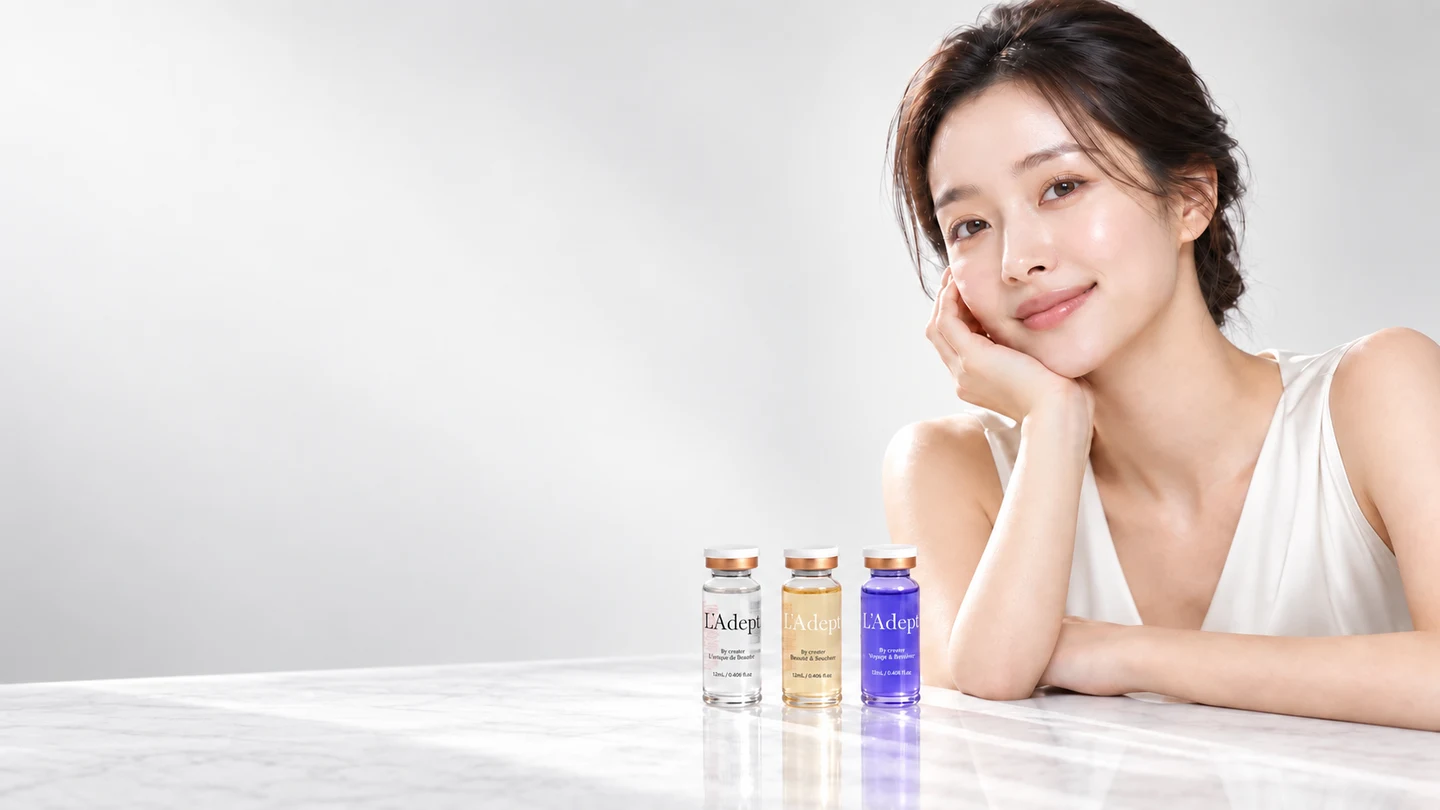
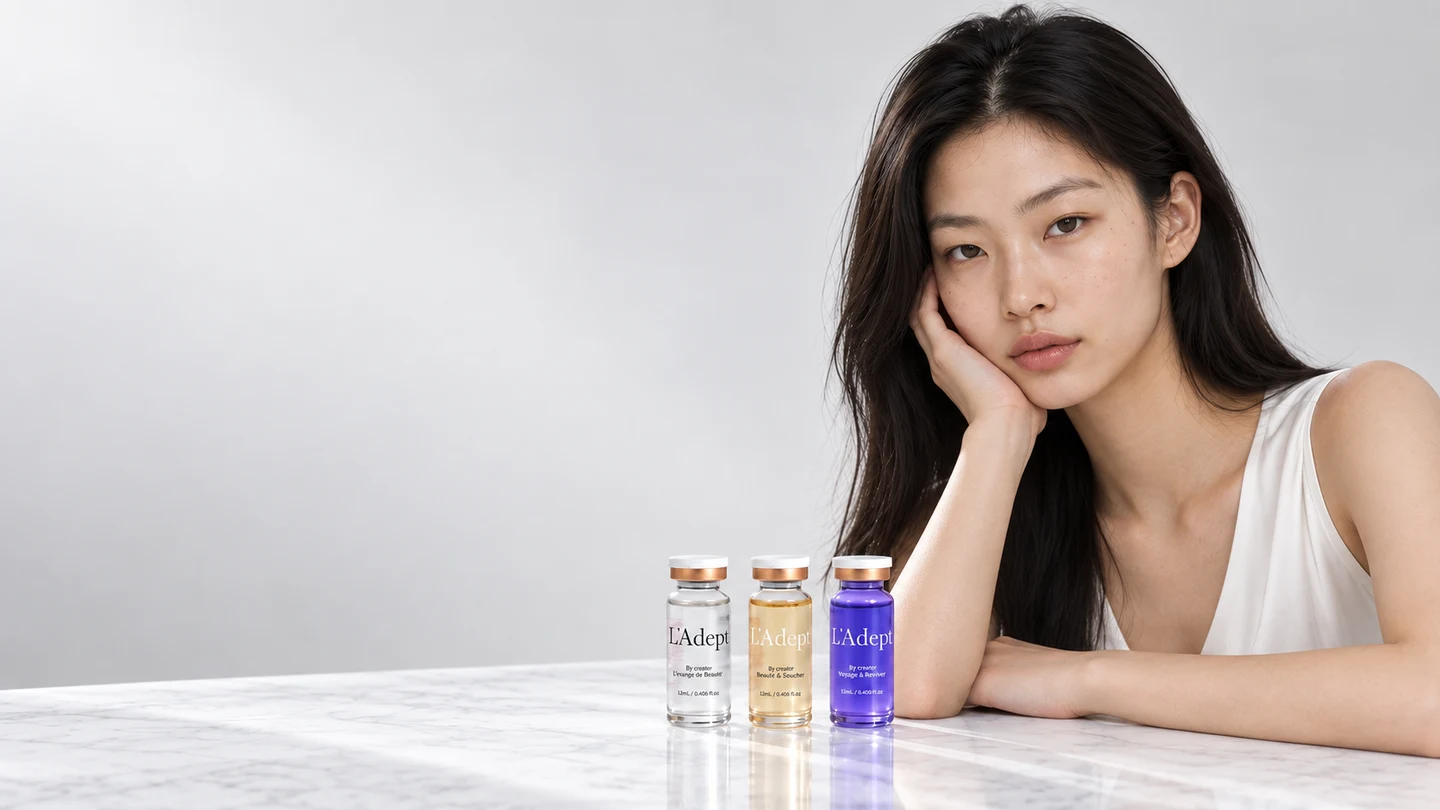
Feature official L'Adept model in desktop and mobile heroes

Changed region(s): [[0.4375, 0.0, 1.0, 1.0], [0.1875, 0.8025, 0.375, 0.8333], [0.0, 0.8333, 0.1875, 0.8642]]

diff --git a/wp-content/et-cache/14/et-core-unified-tb-0-tb-106-deferred-14.min.css b/wp-content/et-cache/14/et-core-unified-tb-0-tb-106-deferred-14.min.css
@@ -1,1 +1,1 @@
-.et_pb_section_0_tb_footer.et_pb_section{padding-top:0px}.et_pb_text_0_tb_footer.et_pb_text{color:#777777!important}.et_pb_text_0_tb_footer{font-family:'Plus Jakarta Sans',Helvetica,Arial,Lucida,sans-serif;font-weight:300}.et_pb_text_0_tb_footer h2{font-family:'DM Serif Text',Georgia,"Times New Roman",serif}.et_pb_text_0_tb_footer h4{font-family:'Plus Jakarta Sans',Helvetica,Arial,Lucida,sans-serif;font-weight:700;font-size:25px}div.et_pb_section.et_pb_section_0{background-image:url(../../uploads/2025/03/hero-model-products-2026.webp?v=20260921b)!important}.et_pb_section_0{height:90vh}.et_pb_row_0,.et_pb_row_6{position:absolute!important;top:50%;bottom:auto;left:50%;right:auto;transform:translateX(-50%) translateY(-50%)}.et_pb_code_0{margin-bottom:1px!important;width:100%}.et_pb_text_0 h2,.et_pb_text_3 h2,.et_pb_text_4 h2,.et_pb_text_5 h2{font-family:'DM Serif Text',Georgia,"Times New Roman",serif;font-size:60px}.et_pb_text_0{padding-top:0px!important;margin-top:0px!important;width:100%}body #page-container .et_pb_section .et_pb_button_0{color:#000000!important;border-radius:200px}body #page-container .et_pb_section .et_pb_button_0:hover{color:#FFFFFF!important;background-image:initial;background-color:#000000}body #page-container .et_pb_section .et_pb_button_0,body #page-container .et_pb_section .et_pb_button_0:hover{padding:0.3em 1em!important}body #page-container .et_pb_section .et_pb_button_0:before,body #page-container .et_pb_section .et_pb_button_0:after{display:none!important}.et_pb_button_0{transition:color 300ms ease 0ms,background-color 300ms ease 0ms;min-width:240px;height:60px;padding:0!important;display:inline-flex!important;align-items:center;justify-content:center;vertical-align:middle}.et_pb_button_0,.et_pb_button_0:after{transition:all 300ms ease 0ms}div.et_pb_section.et_pb_section_3{background-position:left 24% center;background-image:url(../../uploads/2025/03/img2.webp)!important}.et_pb_section_3{height:600px}.et_pb_image_2{text-align:center}.et_pb_text_3 h3{font-family:'DM Serif Text',Georgia,"Times New Roman",serif;font-size:30px;color:#FFFFFF!important}.et_pb_section_4.et_pb_section{padding-top:0px;padding-right:0px;padding-bottom:0px;padding-left:0px;margin-top:0px;margin-bottom:0px;background-color:RGBA(255,255,255,0)!important}.et_pb_row_7,body #page-container .et-db #et-boc .et-l .et_pb_row_7.et_pb_row,body.et_pb_pagebuilder_layout.single #page-container #et-boc .et-l .et_pb_row_7.et_pb_row,body.et_pb_pagebuilder_layout.single.et_full_width_page #page-container #et-boc .et-l .et_pb_row_7.et_pb_row{width:100%;max-width:100%}.et_pb_video_0 .et_pb_video_overlay_hover:hover{background-color:rgba(0,0,0,.6)}.et_pb_image_3{margin-top:70px!important;text-align:left;margin-left:0}.et_pb_row_7.et_pb_row{padding-top:0px!important;padding-right:0px!important;padding-bottom:0px!important;padding-left:0px!important;margin-left:auto!important;margin-right:auto!important;padding-top:0px;padding-right:0px;padding-bottom:0px;padding-left:0px}@media only screen and (max-width:980px){body.logged-in.admin-bar .et_pb_row_0{top:50%}.et_pb_row_0{top:50%;bottom:auto;left:50%;right:auto;transform:translateX(-50%) translateY(-50%)}.et_pb_text_0 h2,.et_pb_text_3 h2,.et_pb_text_4 h2,.et_pb_text_5 h2{font-size:60px}.et_pb_image_2 .et_pb_image_wrap img,.et_pb_image_3 .et_pb_image_wrap img{width:auto}}@media only screen and (max-width:767px){div.et_pb_section.et_pb_section_0{background-image:url(../../uploads/2025/03/hero-model-products-mobile-2026.webp?v=20260921b)!important}body.logged-in.admin-bar .et_pb_row_0{top:65px}.et_pb_row_0{top:65px;bottom:auto;left:50%;right:auto;transform:translateX(-50%) translateY(0px)}.et_pb_text_0 h2,.et_pb_text_3 h2,.et_pb_text_4 h2,.et_pb_text_5 h2{font-size:25px}.et_pb_image_2 .et_pb_image_wrap img,.et_pb_image_3 .et_pb_image_wrap img{width:auto}}
+.et_pb_section_0_tb_footer.et_pb_section{padding-top:0px}.et_pb_text_0_tb_footer.et_pb_text{color:#777777!important}.et_pb_text_0_tb_footer{font-family:'Plus Jakarta Sans',Helvetica,Arial,Lucida,sans-serif;font-weight:300}.et_pb_text_0_tb_footer h2{font-family:'DM Serif Text',Georgia,"Times New Roman",serif}.et_pb_text_0_tb_footer h4{font-family:'Plus Jakarta Sans',Helvetica,Arial,Lucida,sans-serif;font-weight:700;font-size:25px}div.et_pb_section.et_pb_section_0{background-image:url(../../uploads/2025/03/hero-model-products-2026.webp?v=20260921c)!important}.et_pb_section_0{height:90vh}.et_pb_row_0,.et_pb_row_6{position:absolute!important;top:50%;bottom:auto;left:50%;right:auto;transform:translateX(-50%) translateY(-50%)}.et_pb_code_0{margin-bottom:1px!important;width:100%}.et_pb_text_0 h2,.et_pb_text_3 h2,.et_pb_text_4 h2,.et_pb_text_5 h2{font-family:'DM Serif Text',Georgia,"Times New Roman",serif;font-size:60px}.et_pb_text_0{padding-top:0px!important;margin-top:0px!important;width:100%}body #page-container .et_pb_section .et_pb_button_0{color:#000000!important;border-radius:200px}body #page-container .et_pb_section .et_pb_button_0:hover{color:#FFFFFF!important;background-image:initial;background-color:#000000}body #page-container .et_pb_section .et_pb_button_0,body #page-container .et_pb_section .et_pb_button_0:hover{padding:0.3em 1em!important}body #page-container .et_pb_section .et_pb_button_0:before,body #page-container .et_pb_section .et_pb_button_0:after{display:none!important}.et_pb_button_0{transition:color 300ms ease 0ms,background-color 300ms ease 0ms;min-width:240px;height:60px;padding:0!important;display:inline-flex!important;align-items:center;justify-content:center;vertical-align:middle}.et_pb_button_0,.et_pb_button_0:after{transition:all 300ms ease 0ms}div.et_pb_section.et_pb_section_3{background-position:left 24% center;background-image:url(../../uploads/2025/03/img2.webp)!important}.et_pb_section_3{height:600px}.et_pb_image_2{text-align:center}.et_pb_text_3 h3{font-family:'DM Serif Text',Georgia,"Times New Roman",serif;font-size:30px;color:#FFFFFF!important}.et_pb_section_4.et_pb_section{padding-top:0px;padding-right:0px;padding-bottom:0px;padding-left:0px;margin-top:0px;margin-bottom:0px;background-color:RGBA(255,255,255,0)!important}.et_pb_row_7,body #page-container .et-db #et-boc .et-l .et_pb_row_7.et_pb_row,body.et_pb_pagebuilder_layout.single #page-container #et-boc .et-l .et_pb_row_7.et_pb_row,body.et_pb_pagebuilder_layout.single.et_full_width_page #page-container #et-boc .et-l .et_pb_row_7.et_pb_row{width:100%;max-width:100%}.et_pb_video_0 .et_pb_video_overlay_hover:hover{background-color:rgba(0,0,0,.6)}.et_pb_image_3{margin-top:70px!important;text-align:left;margin-left:0}.et_pb_row_7.et_pb_row{padding-top:0px!important;padding-right:0px!important;padding-bottom:0px!important;padding-left:0px!important;margin-left:auto!important;margin-right:auto!important;padding-top:0px;padding-right:0px;padding-bottom:0px;padding-left:0px}@media only screen and (max-width:980px){body.logged-in.admin-bar .et_pb_row_0{top:50%}.et_pb_row_0{top:50%;bottom:auto;left:50%;right:auto;transform:translateX(-50%) translateY(-50%)}.et_pb_text_0 h2,.et_pb_text_3 h2,.et_pb_text_4 h2,.et_pb_text_5 h2{font-size:60px}.et_pb_image_2 .et_pb_image_wrap img,.et_pb_image_3 .et_pb_image_wrap img{width:auto}}@media only screen and (max-width:767px){div.et_pb_section.et_pb_section_0{background-image:url(../../uploads/2025/03/hero-model-products-mobile-2026.webp?v=20260921c)!important}body.logged-in.admin-bar .et_pb_row_0{top:65px}.et_pb_row_0{top:65px;bottom:auto;left:50%;right:auto;transform:translateX(-50%) translateY(0px)}.et_pb_text_0 h2,.et_pb_text_3 h2,.et_pb_text_4 h2,.et_pb_text_5 h2{font-size:25px}.et_pb_image_2 .et_pb_image_wrap img,.et_pb_image_3 .et_pb_image_wrap img{width:auto}}

diff --git a/index.html b/index.html
@@ -80,8 +80,8 @@ a,abbr,acronym,address,applet,b,big,blockquote,body,center,cite,code,dd,del,dfn,
 <link rel='preload' id='divi-dynamic-late-css' href='wp-content/et-cache/14/et-divi-dynamic-tb-106-14-late.css' as='style' media='all' onload="this.onload=null;this.rel='stylesheet'" />
 <link rel='preload' id='divi-dynamic-css' href='wp-content/et-cache/14/et-divi-dynamic-tb-106-14.css' as='style' media='all' onload="this.onload=null;this.rel='stylesheet'" />
 <link rel='stylesheet' id='et-builder-googlefonts-cached-css' href='https://fonts.googleapis.com/css?family=DM+Serif+Text:regular,italic|Plus+Jakarta+Sans:200,300,regular,500,600,700,800,200italic,300italic,italic,500italic,600italic,700italic,800italic&#038;subset=latin,latin-ext&#038;display=swap' type='text/css' media='all' />
-<link rel='stylesheet' id='divi-child-style-css' href='wp-content/themes/divi-child/style.css?v=20260921b' type='text/css' media='all' />
-<link rel='stylesheet' id='divi-style-css' href='wp-content/themes/divi-child/style.css?v=20260921b' type='text/css' media='all' />
+<link rel='stylesheet' id='divi-child-style-css' href='wp-content/themes/divi-child/style.css?v=20260921c' type='text/css' media='all' />
+<link rel='stylesheet' id='divi-style-css' href='wp-content/themes/divi-child/style.css?v=20260921c' type='text/css' media='all' />
 <script type="text/javascript" src="wp-content/plugins/popups-for-divi/scripts/ie-compat.min.js" id="dap-ie-js"></script>
 
 <!-- Google tag (gtag.js) snippet added by Site Kit -->

diff --git a/wp-content/themes/divi-child/style.css b/wp-content/themes/divi-child/style.css
@@ -13,12 +13,12 @@ Text Domain: yesdev-divi-child
 
 /* 2026 campaign hero: newly cast model with the L'Adept product line. */
 html body div.et_pb_section.et_pb_section_0 {
-    background-image: url("../../uploads/2025/03/hero-model-products-2026.webp?v=20260921b") !important;
+    background-image: url("../../uploads/2025/03/hero-model-products-2026.webp?v=20260921c") !important;
 }
 
 @media only screen and (max-width: 767px) {
     html body div.et_pb_section.et_pb_section_0 {
-        background-image: url("../../uploads/2025/03/hero-model-products-mobile-2026.webp?v=20260921b") !important;
+        background-image: url("../../uploads/2025/03/hero-model-products-mobile-2026.webp?v=20260921c") !important;
     }
 
     html body .et_pb_row_0 {
